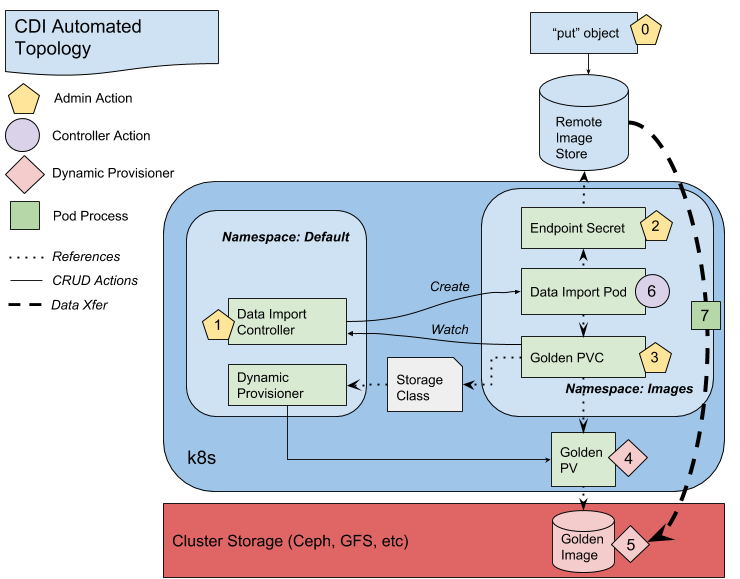
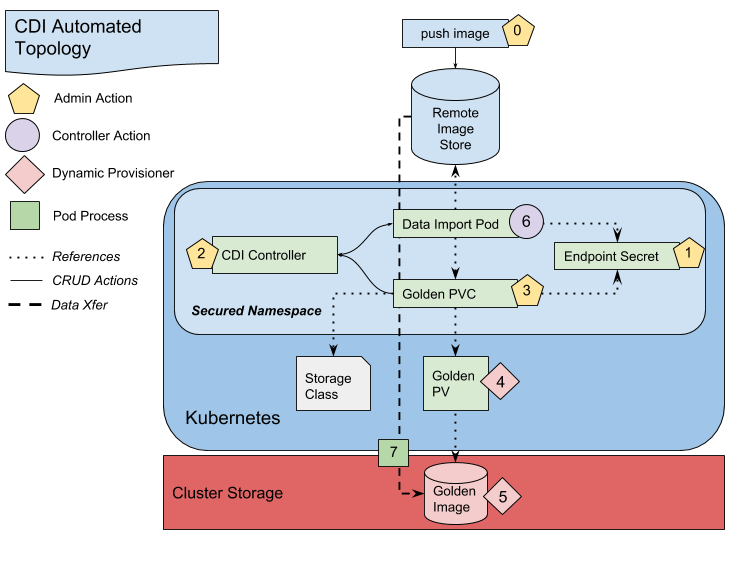
Update cdi-controller diagram

diff --git a/README.md b/README.md
@@ -30,27 +30,33 @@ The diagram below illustrates the architecture and control flow of this project.
 Steps are identified by role according the the colored shape. Each step must be performed in
 the order they are number unless otherwise specified.
 
+#### Assumptions
+
+- (Optional) A "golden" namespace  which is restricted such that ordinary users cannot
+create objects within it. This is to prevent a non-privileged user from trigger the import of a
+ potentially large VM image.  In tire kicking setups, "default" is an acceptable namespace.
+
+- (Required) A Kubernetes Storage Class which defines the storage provisioner. The "golden"
+pvc expects dynamic provisioning to be enabled in the cluster.
+
+#### Steps
+
 0. An admin stores the data in a network accessible location outside of the Kubernetes cluster.
 
-**NOT SHOWN:** Admin creates a "golden" namespace which is restricted such that ordinary users cannot
-create objects within it. This is to prevent a non-privileged user from trigger the import of
-a potentially large VM image.
-
-1. The admin creates one or more secrets, in the "golden" namespace, which contain base64
-encoded values of credentials to access the source file (VM image).
-
-**NOT NUMBERED:** Admin creates one or more Kubernetes Storage Classes which define the storage provisioner
-and parameters needed by this provisioner. These storage classes will be referenced by the "golden"
-PVC created below.
+1. (Optional) If the source repo requires authentication credentials to access the source endpoint,
+then the admin can create one or more secrets in the "golden" namespace, which contain
+base64 encoded values of credentials.
 
 2. The admin creates the Controller using a Deployment manifest provided in this repo.
-The Deployment launches the controller in the "golden" namespace and ensures only one instance of
-the controller is always running. This controller watches for PVCs containing special annotations
-which define the source file's endpoint path, and secret name (if credentials are needed to access the
+The Deployment launches the controller in the "golden" namespace and ensures only one instance of the
+controller is always running. This controller watches for PVCs containing special annotations which
+define the source file's endpoint path, and secret name (if credentials are needed to access the
 endpoint).
-3. The admin creates the Golden PVC in the "golden" namespace. This PVC references the Storage Class
-above, either explicitly or as the default. These "golden" PVCs, annotated per below, tell the
-controller to create and launch the impoter pod which does the file copy.
+
+3. The admin creates the Golden PVC in the "golden" namespace. This PVC references the
+Storage above, either explicitly or as the default. These "golden" PVCs, annotated per
+below, tell the controller to create and launch the impoter pod which does the file copy.
+
 4. The dynamic provisioner, referenced in the Storage Class, creates the Persistent Volume (PV) which
 contains the target destination information.
 5. (in parallel) The dynamic provisioner provisions the backing storage/volume, which for VM images, should
@@ -69,7 +75,7 @@ secret. Each endpoint has a long lived secret in the "golden" namespace. The acc
 secrets are consumed by the importer pod and passed to the endpoint for authentication.
 
 
-### Components :
+### Components
 
 **Data Import Controller:** Long-lived Controller pod in "golden" namespace.
 The controller scans for "golden" PVCs in the same namespace looking for specific
